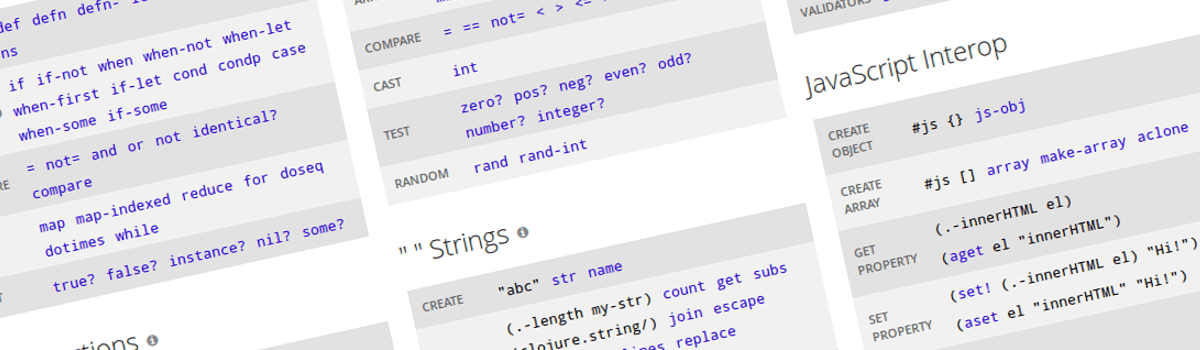
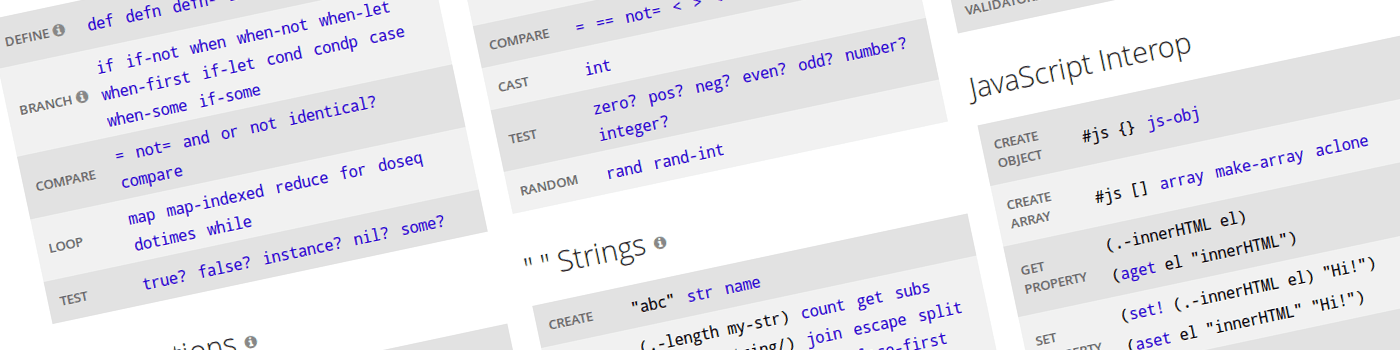
tweak homepage background image

diff --git a/less/homepage.less b/less/homepage.less
@@ -433,8 +433,8 @@
 }
 
 .background-img-4ff34 {
-  left: 0;
-  .opacity(0.2);
+  left: -100px;
+  .opacity(0.1);
   position: absolute;
   top: 0;
   z-index: 1;
